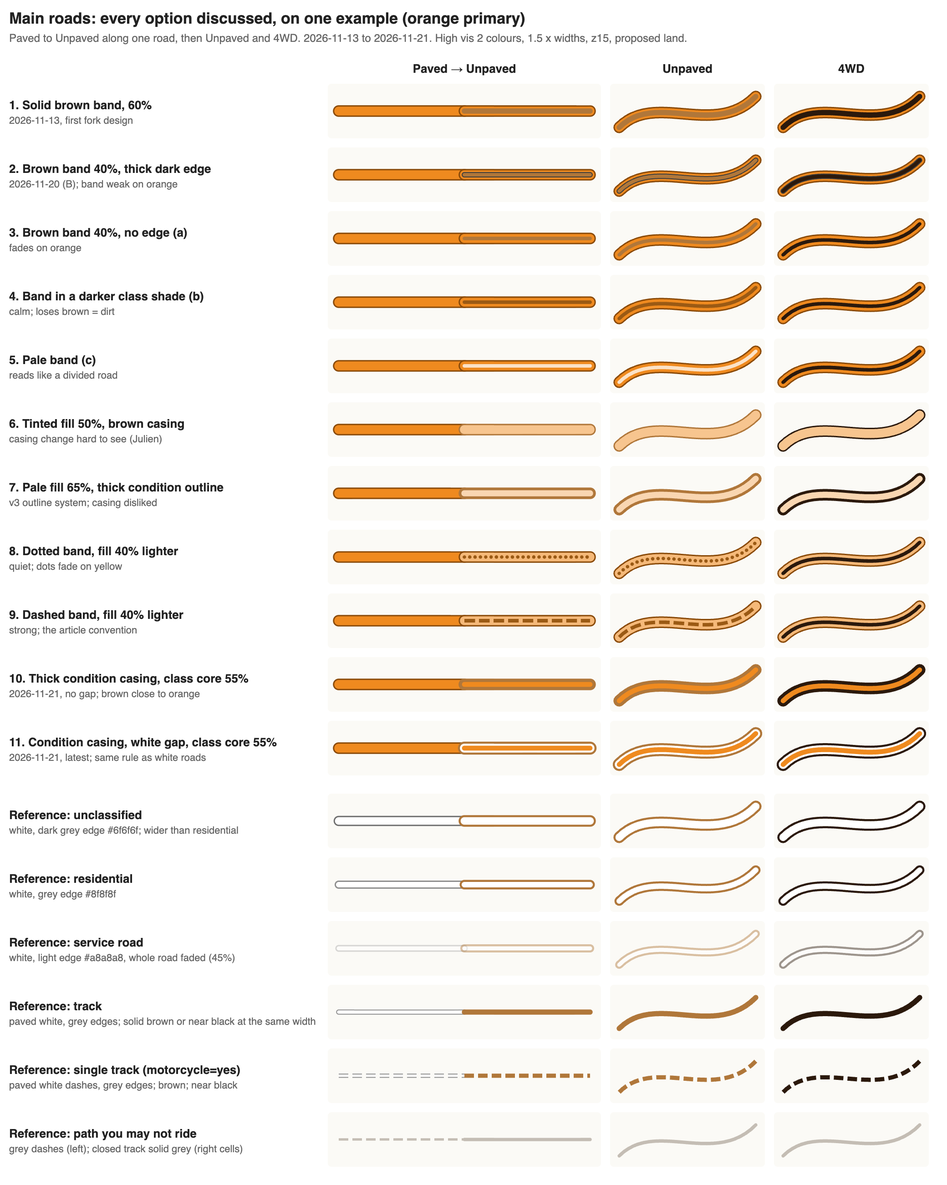
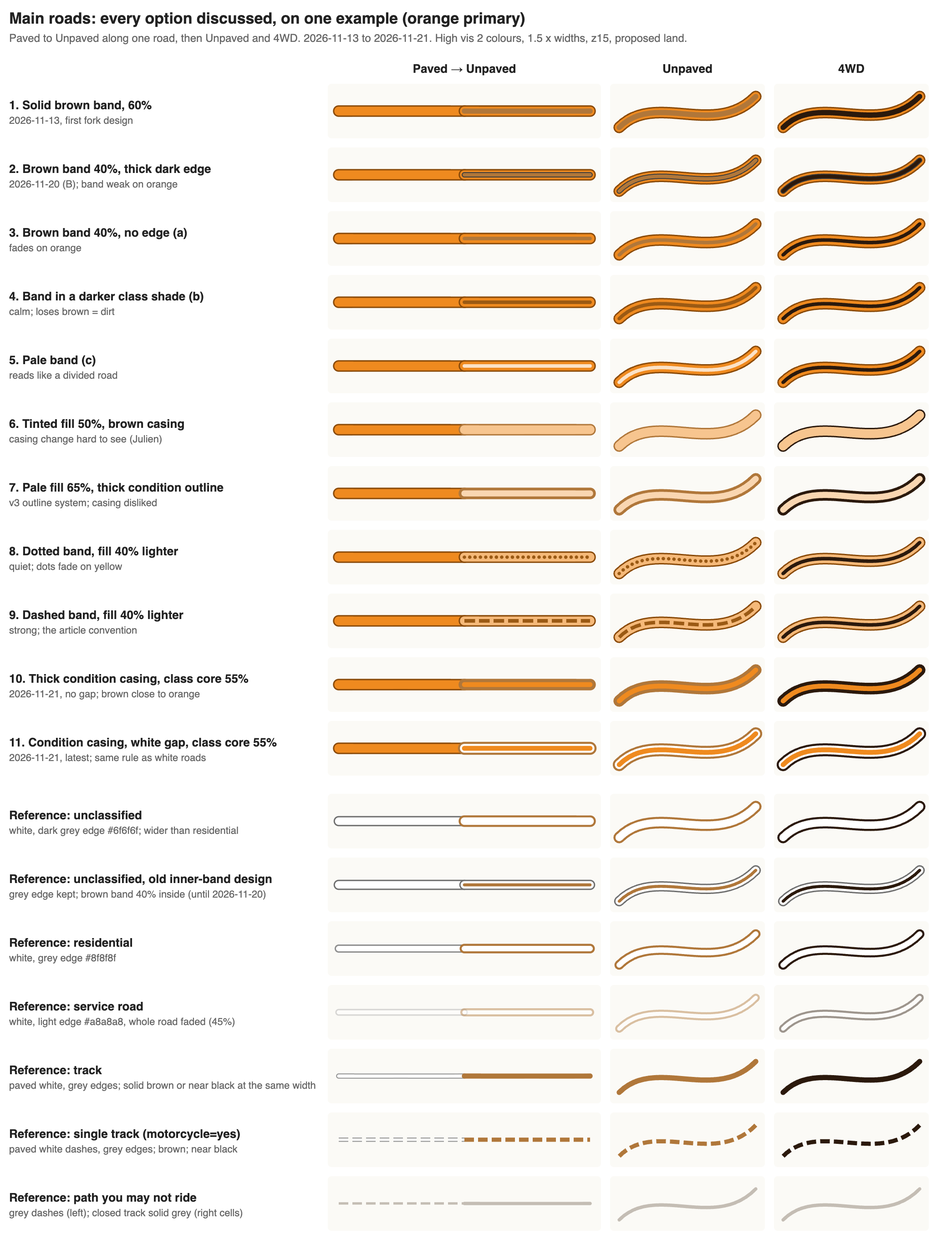
Research: tertiary colour across maps (white in the Carto family, yellow in topo and German-style maps); comparison with the old inner-band white road; todo updated

diff --git a/research/todo.md b/research/todo.md
@@ -45,7 +45,7 @@ Updated 2026-11-20. Only what is still open. Settled decisions are in [decisions
 
 ## Tracks rendering
 
-- Find a mechanism for rendering unpaved roads and tracks/paths consistently together (added 2026-11-16, Julien). Starting points: the constraint and shared classifier in [E-tracks.md section 4](E-tracks.md#4-constraint-from-the-roads-work) (a road never drawn as a track, tracks unlike any Unpaved or Off-road road, one classifier for both), scheme D in [section 6.4](E-tracks.md#64-scheme-d-decisions-of-2026-11-13-julien-not-in-the-article), paved tracks drawn solid (Low priority below). Left: decide what "consistent" means (shared ramp and legend words, shared dash rhythms, or one rule mapping road class plus condition to a look), then a mockup of roads and tracks side by side in each road style. **Better mockups** (Julien, 2026-11-19): for the OsmAnd fork first (scheme D tracks, solid brown band on roads, [E-tracks.md section 6.4](E-tracks.md#64-scheme-d-decisions-of-2026-11-13-julien-not-in-the-article)), as real-data map crops instead of single swatches on a curve, so roads and tracks are seen meeting at junctions. Views from the track round ([examples/track-spots.md](examples/track-spots.md)): chiangrai (moto paths, untagged tracks), thailand-1 (every track grade, paved tracks) and a Swiss one (closed-way density); geometry in `pbf/<c>-ways.geojsonseq` (Geofabrik 2026-11-12). Covers the "Next" step of section 6.4. **Done 2026-11-19**: [mockups/fork-crop-*.png](mockups/) from `node mockups/make-fork-crops.mjs` (chiangrai, thailand-1, switzerland-2 with three closed-way styles), reading in [E-tracks.md 6.4](E-tracks.md#64-scheme-d-decisions-of-2026-11-13-julien-not-in-the-article) ("Real-data crops"). Closed ways: **grey** (Julien, 2026-11-19; solid light grey for tracks, dots for paths), drawn in the crops; OsmAnd's motorcycle routing already avoids them (E-tracks 6.4, "Routing already matches"). **Left** (Julien): decide whether paved tracks must differ from residential roads; say whether the 40% band on white roads is too light next to tracks. **Riding focus** (Julien, 2026-11-19: road riding, adventure riding with 4WD, trail riding with `dirtbike:scale` symbols): proposal drawn 2026-11-19 in [mockups/fork-focus-*.png](mockups/) and written in E-tracks 6.4 ("Riding focus", with the OsmAnd check for `dirtbike:scale`: already in the maps as `route_dirtbike`, symbols possible with dashes, dots and squares only). **Left** (Julien): check the three focus values, pick the default (Claude: Adventure), `dirtbike:scale`: not rendered for now, documented only in E-tracks 6.4 (Julien, 2026-11-19; the count-and-bar symbol set is kept there); paths now dashed grey, one grey for everything you may not ride (Julien, 2026-11-19; density check [mockups/fork-crop-switzerland-1.png](mockups/fork-crop-switzerland-1.png)): pick the grey path width, 1.75 or 1.4 dp; road casing: **B** chosen (Julien, 2026-11-19), with unclassified and tertiary darker than residential and service roads faded (private ones grey), applied to every sheet (E-tracks 6.4, "White-road hierarchy and service roads"); closed roads grey, `destination` no longer grey, driveways grey from z16, footways and cycleways hidden, Road riding without dirt tracks but with the dirt band on roads at full strength (a warning), Trail riding with paved roads at 60% (Julien, 2026-11-19; E-tracks 6.4 "Closed roads, driveways", z16 check [mockups/fork-crop-switzerland-1-z16.png](mockups/fork-crop-switzerland-1-z16.png)); **Readability** (Julien, 2026-11-19: colours hard to read, larger is better for older riders): Garmin and DMD2 review and a high-visibility palette (saturated fills, 1.5 x widths, band edge, road numbers) in [mockups/fork-hivis-*.png](mockups/), written in E-tracks 6.4 ("Readability"); Scored 2026-11-19 (`mockups/score-readability.py`): Now 3.0, High vis 6.7, **High vis 2 8.2** (crimson-rose trunk, deeper orange; colour-blind safe), AdvOSM 9.1. **High vis 2 adopted** (Julien, 2026-11-19), every sheet redrawn. **Confirmed ladder adopted** (Julien, 2026-11-20; E-tracks 6.4): tan Easy where a city car is confirmed, brown for everything not confirmed including high clearance, near black 4WD; [mockups/fork-ladder-*.png](mockups/); pale sand `#f6f1e2` and rock `#efeeeb` added to the background; Easy level by hue (Julien, 2026-11-20): tan, slate blue, purple, mauve compared in [mockups/fork-easy-*.png](mockups/); green fails for colour blindness, blue reads as water; **decided: Easy as a shape** (Julien, 2026-11-20), now **v3**: white track with brown edges, Easy roads with brown lines inside the casing (more brown = rougher); [mockups/fork-easyshape-*.png](mockups/); main roads compared 2026-11-20 ([mockups/mainroads-options.png](mockups/mainroads-options.png), [mockups/fork-main-thailand-3.png](mockups/fork-main-thailand-3.png)): main roads: inner band only (Julien, 2026-11-20), but the brown band with dark edge disliked: **b adopted** (darker class shade; white roads and tracks keep brown; Julien, 2026-11-20); design v2 options ([mockups/design-overview-v2.png](mockups/design-overview-v2.png)); **design v3, one outline system** ([mockups/design-overview-v3.png](mockups/design-overview-v3.png)): outline = condition everywhere (grey, slate blue, brown, near black), main roads pale fill and thick outline when not paved; main-road outline dropped (Julien, 2026-11-20); **main-road pattern: dotted vs dashed band compared** ([mockups/pattern-options.png](mockups/pattern-options.png)); **proposal: 40% lighter fill, Car friendly dots, Unpaved dashes, 4WD solid band; Julien to decide**; all options on one example: [mockups/main-compare.png](mockups/main-compare.png) (with references: unclassified, residential, service, track, single track, path); tracks as wide as a paved track with its edges (2026-11-21); **new idea: condition casing, white gap, class-colour core** ([mockups/core-options.png](mockups/core-options.png); proposal 55% core; Car friendly outline colour still open: blue reads as a route); then make it the default and redraw the crops ([mockups/mainroads-options.png](mockups/mainroads-options.png)); level renamed **Car friendly**; paved single tracks white dashes with grey edges; smooth single tracks white dashes with brown edges ("car friendly" does not apply to single tracks); tracks and white roads keep v3; overview sheet [mockups/design-overview.png](mockups/design-overview.png); band 40% on every class (50% in Adventure riding); smooth tracks drawn above rough ones; side-by-side sheet [mockups/easy-options.png](mockups/easy-options.png); **to fix: the brown Unpaved band almost vanishes inside the orange primary** (contrast 1.50; trunk 1.22); **left**: a desert view to test sand (none of the four views has sand; Namibia or Mongolia extract needed). Earlier: Track colours rated (about 7.5) and changed 2026-11-19: `very_horrible` tracks as near-black single tracks, band edge neutral grey; rust middle step (`#7a3a14`) drawn as a variant in [mockups/fork-ramp-thailand-1.png](mockups/fork-ramp-thailand-1.png), **Julien to decide**; score now High vis 2 7.4, with rust 7.6. Land colours researched 2026-11-19 (E-tracks 6.5 "Land colour research": Carto, OsmAnd default, Motorcycle, AdvOSM, Gaia, Komoot, contrast of the fork colours on land and forest); proposal land `#fbfaf6`, forest `#e2ebd8`; drawn on real landcover 2026-11-19 ([mockups/fork-land-*.png](mockups/)): Carto's forest hides tracks and grey, Motorcycle and the proposal keep them; **proposal adopted** (Julien, 2026-11-19). **The style is Julien's own version, not a fork of the GPL v3 Motorcycle plugin** (E-tracks 6.5): no code or values copied; check the OsmAnd-resources licence exceptions before reusing anything from `default.render.xml`; **minimal, no fork** (Julien, 2026-11-19): an override-only style on `depends="default"`; **next**: test style in `osmand-render` with only the band and the brown track ramp on thailand-1; **Water and fords** (2026-11-19, E-tracks 6.5): rivers inherited and recoloured, fords and bridges inherited, check the ford icon in the test render; Julien to confirm. **Hillshade and contours: waiting for Julien** (E-tracks 6.5, plan): (1) fix GDAL with `brew upgrade gdal` or go without it, (2) OK to download four Copernicus DEM tiles; then variants A, B, C on thailand-1 and switzerland-2. hillshade and contours still to do (no elevation data yet). **Next to make it better** (E-tracks 6.4, "How to make it better"): phone test outdoors, reader test round 3 with riders, thinner towns, z10 to 13, tracks a little wider, shields, night; motorways to add (not in the extract); then the missing list there in order (fuel, z10 to 13, fords, place names, hillshade, night, blocking barriers at z16+; barriers otherwise not drawn, Julien). Then redraw [mockups/picks-combined.png](mockups/picks-combined.png) with grey closed ways, choose the night grey, night crops, and a forest background once landuse is extracted.
+- Find a mechanism for rendering unpaved roads and tracks/paths consistently together (added 2026-11-16, Julien). Starting points: the constraint and shared classifier in [E-tracks.md section 4](E-tracks.md#4-constraint-from-the-roads-work) (a road never drawn as a track, tracks unlike any Unpaved or Off-road road, one classifier for both), scheme D in [section 6.4](E-tracks.md#64-scheme-d-decisions-of-2026-11-13-julien-not-in-the-article), paved tracks drawn solid (Low priority below). Left: decide what "consistent" means (shared ramp and legend words, shared dash rhythms, or one rule mapping road class plus condition to a look), then a mockup of roads and tracks side by side in each road style. **Better mockups** (Julien, 2026-11-19): for the OsmAnd fork first (scheme D tracks, solid brown band on roads, [E-tracks.md section 6.4](E-tracks.md#64-scheme-d-decisions-of-2026-11-13-julien-not-in-the-article)), as real-data map crops instead of single swatches on a curve, so roads and tracks are seen meeting at junctions. Views from the track round ([examples/track-spots.md](examples/track-spots.md)): chiangrai (moto paths, untagged tracks), thailand-1 (every track grade, paved tracks) and a Swiss one (closed-way density); geometry in `pbf/<c>-ways.geojsonseq` (Geofabrik 2026-11-12). Covers the "Next" step of section 6.4. **Done 2026-11-19**: [mockups/fork-crop-*.png](mockups/) from `node mockups/make-fork-crops.mjs` (chiangrai, thailand-1, switzerland-2 with three closed-way styles), reading in [E-tracks.md 6.4](E-tracks.md#64-scheme-d-decisions-of-2026-11-13-julien-not-in-the-article) ("Real-data crops"). Closed ways: **grey** (Julien, 2026-11-19; solid light grey for tracks, dots for paths), drawn in the crops; OsmAnd's motorcycle routing already avoids them (E-tracks 6.4, "Routing already matches"). **Left** (Julien): decide whether paved tracks must differ from residential roads; say whether the 40% band on white roads is too light next to tracks. **Riding focus** (Julien, 2026-11-19: road riding, adventure riding with 4WD, trail riding with `dirtbike:scale` symbols): proposal drawn 2026-11-19 in [mockups/fork-focus-*.png](mockups/) and written in E-tracks 6.4 ("Riding focus", with the OsmAnd check for `dirtbike:scale`: already in the maps as `route_dirtbike`, symbols possible with dashes, dots and squares only). **Left** (Julien): check the three focus values, pick the default (Claude: Adventure), `dirtbike:scale`: not rendered for now, documented only in E-tracks 6.4 (Julien, 2026-11-19; the count-and-bar symbol set is kept there); paths now dashed grey, one grey for everything you may not ride (Julien, 2026-11-19; density check [mockups/fork-crop-switzerland-1.png](mockups/fork-crop-switzerland-1.png)): pick the grey path width, 1.75 or 1.4 dp; road casing: **B** chosen (Julien, 2026-11-19), with unclassified and tertiary darker than residential and service roads faded (private ones grey), applied to every sheet (E-tracks 6.4, "White-road hierarchy and service roads"); closed roads grey, `destination` no longer grey, driveways grey from z16, footways and cycleways hidden, Road riding without dirt tracks but with the dirt band on roads at full strength (a warning), Trail riding with paved roads at 60% (Julien, 2026-11-19; E-tracks 6.4 "Closed roads, driveways", z16 check [mockups/fork-crop-switzerland-1-z16.png](mockups/fork-crop-switzerland-1-z16.png)); **Readability** (Julien, 2026-11-19: colours hard to read, larger is better for older riders): Garmin and DMD2 review and a high-visibility palette (saturated fills, 1.5 x widths, band edge, road numbers) in [mockups/fork-hivis-*.png](mockups/), written in E-tracks 6.4 ("Readability"); Scored 2026-11-19 (`mockups/score-readability.py`): Now 3.0, High vis 6.7, **High vis 2 8.2** (crimson-rose trunk, deeper orange; colour-blind safe), AdvOSM 9.1. **High vis 2 adopted** (Julien, 2026-11-19), every sheet redrawn. **Confirmed ladder adopted** (Julien, 2026-11-20; E-tracks 6.4): tan Easy where a city car is confirmed, brown for everything not confirmed including high clearance, near black 4WD; [mockups/fork-ladder-*.png](mockups/); pale sand `#f6f1e2` and rock `#efeeeb` added to the background; Easy level by hue (Julien, 2026-11-20): tan, slate blue, purple, mauve compared in [mockups/fork-easy-*.png](mockups/); green fails for colour blindness, blue reads as water; **decided: Easy as a shape** (Julien, 2026-11-20), now **v3**: white track with brown edges, Easy roads with brown lines inside the casing (more brown = rougher); [mockups/fork-easyshape-*.png](mockups/); main roads compared 2026-11-20 ([mockups/mainroads-options.png](mockups/mainroads-options.png), [mockups/fork-main-thailand-3.png](mockups/fork-main-thailand-3.png)): main roads: inner band only (Julien, 2026-11-20), but the brown band with dark edge disliked: **b adopted** (darker class shade; white roads and tracks keep brown; Julien, 2026-11-20); design v2 options ([mockups/design-overview-v2.png](mockups/design-overview-v2.png)); **design v3, one outline system** ([mockups/design-overview-v3.png](mockups/design-overview-v3.png)): outline = condition everywhere (grey, slate blue, brown, near black), main roads pale fill and thick outline when not paved; main-road outline dropped (Julien, 2026-11-20); **main-road pattern: dotted vs dashed band compared** ([mockups/pattern-options.png](mockups/pattern-options.png)); **proposal: 40% lighter fill, Car friendly dots, Unpaved dashes, 4WD solid band; Julien to decide**; all options on one example: [mockups/main-compare.png](mockups/main-compare.png) (with references: unclassified, residential, service, track, single track, path); tracks as wide as a paved track with its edges (2026-11-21); unclassified wider than residential (5.5 against 4 dp); **tertiary colour researched** (E-tracks 6.4: Carto family white, topo and German-style maps yellow): **proposal pale yellow, Julien to decide**; **new idea: condition casing, white gap, class-colour core** ([mockups/core-options.png](mockups/core-options.png); proposal 55% core; Car friendly outline colour still open: blue reads as a route); then make it the default and redraw the crops ([mockups/mainroads-options.png](mockups/mainroads-options.png)); level renamed **Car friendly**; paved single tracks white dashes with grey edges; smooth single tracks white dashes with brown edges ("car friendly" does not apply to single tracks); tracks and white roads keep v3; overview sheet [mockups/design-overview.png](mockups/design-overview.png); band 40% on every class (50% in Adventure riding); smooth tracks drawn above rough ones; side-by-side sheet [mockups/easy-options.png](mockups/easy-options.png); **to fix: the brown Unpaved band almost vanishes inside the orange primary** (contrast 1.50; trunk 1.22); **left**: a desert view to test sand (none of the four views has sand; Namibia or Mongolia extract needed). Earlier: Track colours rated (about 7.5) and changed 2026-11-19: `very_horrible` tracks as near-black single tracks, band edge neutral grey; rust middle step (`#7a3a14`) drawn as a variant in [mockups/fork-ramp-thailand-1.png](mockups/fork-ramp-thailand-1.png), **Julien to decide**; score now High vis 2 7.4, with rust 7.6. Land colours researched 2026-11-19 (E-tracks 6.5 "Land colour research": Carto, OsmAnd default, Motorcycle, AdvOSM, Gaia, Komoot, contrast of the fork colours on land and forest); proposal land `#fbfaf6`, forest `#e2ebd8`; drawn on real landcover 2026-11-19 ([mockups/fork-land-*.png](mockups/)): Carto's forest hides tracks and grey, Motorcycle and the proposal keep them; **proposal adopted** (Julien, 2026-11-19). **The style is Julien's own version, not a fork of the GPL v3 Motorcycle plugin** (E-tracks 6.5): no code or values copied; check the OsmAnd-resources licence exceptions before reusing anything from `default.render.xml`; **minimal, no fork** (Julien, 2026-11-19): an override-only style on `depends="default"`; **next**: test style in `osmand-render` with only the band and the brown track ramp on thailand-1; **Water and fords** (2026-11-19, E-tracks 6.5): rivers inherited and recoloured, fords and bridges inherited, check the ford icon in the test render; Julien to confirm. **Hillshade and contours: waiting for Julien** (E-tracks 6.5, plan): (1) fix GDAL with `brew upgrade gdal` or go without it, (2) OK to download four Copernicus DEM tiles; then variants A, B, C on thailand-1 and switzerland-2. hillshade and contours still to do (no elevation data yet). **Next to make it better** (E-tracks 6.4, "How to make it better"): phone test outdoors, reader test round 3 with riders, thinner towns, z10 to 13, tracks a little wider, shields, night; motorways to add (not in the extract); then the missing list there in order (fuel, z10 to 13, fords, place names, hillshade, night, blocking barriers at z16+; barriers otherwise not drawn, Julien). Then redraw [mockups/picks-combined.png](mockups/picks-combined.png) with grey closed ways, choose the night grey, night crops, and a forest background once landuse is extracted.
 
 ## Low priority
 

diff --git a/research/E-tracks.md b/research/E-tracks.md
@@ -348,7 +348,19 @@ Score after these changes (a new measure, ramp steps apart, added; the scores ar
 
 **Main roads: no outline, a pattern (Julien, 2026-11-20).** The condition outline works on white roads and tracks but not on coloured roads: Julien did not like it, and a coloured outline (blue above all) is how navigation apps highlight the active route. Patterns compared in [mockups/pattern-options.png](mockups/pattern-options.png) (`node mockups/make-pattern-options.mjs`): dotted band and dashed band in a darker shade of the class colour (Car friendly sparse, Unpaved dense, 4WD a near-black band), on the High vis 2 fill and on a fill 40% lighter, land and forest. Reading (Claude): dots are quiet but dense dots fade on yellow, and sparse against dense differ only by spacing; dashes are stronger on every class and are the convention (the article's style 3, Americana), and inside a road between the class edges they do not read as a single track; the 40% lighter fill helps both. Proposal: on the 40% lighter fill, Car friendly sparse dots, Unpaved dashes, 4WD solid near-black band (dots, dashes, solid: the line fills in as the road gets rougher). Julien to decide.
 
-**Track width (Julien, 2026-11-21):** Unpaved and 4WD tracks (and single tracks) are now as wide as a paved track with its edges (2.5 dp + 2 dp), so a track keeps its width where the surface changes; in every crop and in the comparison. **All main-road options on one example (2026-11-21):** [mockups/main-compare.png](mockups/main-compare.png) (`node mockups/make-main-compare.mjs`): the eleven designs discussed from 2026-11-13 to 2026-11-21 on the orange primary (the hardest case for brown), each as paved to Unpaved along one road, Unpaved and 4WD, with references below: unclassified and tertiary, residential, service (faded), track, single track, path you may not ride. **Main roads: condition casing, white gap, class-colour core (Julien, 2026-11-21).** Julien meant the inner band with a white gap between it and the casing: when not paved, the road is drawn like an unpaved white road in the outline system (condition casing 1.5 dp a side, white fill) with the class colour as a core of 40, 55 or 70% of the fill, now in [mockups/core-options.png](mockups/core-options.png). Reading (Claude): one rule for every road (outline = condition, white = not paved, core = class on main roads); the white gap separates the brown from the orange, so the unpaved primary is now clearly apart from the paved one; the paved-to-unpaved change is sharp on all three classes; 55% balances (40% thins the yellow stripe, 70% nearly closes the gap). Still open: the slate-blue Car friendly outline looks like OsmAnd's blue route; a thin brown outline would avoid it. Proposal: 55% core. Julien to decide. The version without the gap, drawn first:  When not paved, the condition colour fills the whole road width and the class colour is a core of 40, 55 or 70% of the fill: [mockups/core-options.png](mockups/core-options.png) (`node mockups/make-core-options.mjs`), with a paved-to-unpaved transition along one road and a white road for comparison. It is the outline system of white roads with a thicker outline, so one rule for every road. Reading (Claude): 55% balances condition and class; 40% makes the road brown with a coloured stripe; 70% is close to the thin outline Julien disliked; 4WD (black with a coloured core) is very strong. Weak points: on the orange primary the brown is close in hue, so the change is weakest there; the thick slate-blue Car friendly outline looks like the route OsmAnd draws in blue. Suggestion: 55% core; Car friendly main roads with a thin brown outline (1 dp) instead of blue (thin brown = a car passes, thick brown = Unpaved, thick black = 4WD); a darker brown on the orange primary. Julien to decide.
+**Track width (Julien, 2026-11-21):** Unpaved and 4WD tracks (and single tracks) are now as wide as a paved track with its edges (2.5 dp + 2 dp), so a track keeps its width where the surface changes; in every crop and in the comparison. **Tertiary colour, what other maps do (2026-11-21).** Julien: in his experience only unclassified is white, since it is easily confused with residential; tertiary is usually yellow. Checked in the style sources (OsmAnd `default.render.xml`, the OsmAnd OSM Carto port) and by sampling the road colours of paved tertiary, secondary, unclassified and residential ways in the 1200 x 800 track-round screenshots of switzerland-1, -2 and -3 (`examples/screenshots/track-*/`; only the readings where one colour covers 60% or more of the samples are kept):
+
+| Tertiary drawn | Maps |
+|---|---|
+| **White, like unclassified** | OSM Carto and the OsmAnd web map (secondary pale yellow `#f7fabf`), OsmAnd default (`tertiaryRoadColor` `#ffffff`), MapTiler OMT, OpenCycleMap, Tracestrack |
+| **Yellow or pale yellow, apart from unclassified** | OpenTopoMap (`#f0e460`, the same as secondary), Shortbread (about `#f0f0b4`, secondary orange), Humanitarian (yellow, secondary tan), Thunderforest Outdoors (pale yellow), OsmAnd with the "German road atlas" (`#ffff80`) or "high contrast" (`#f0c810`) road style |
+| **One colour for every minor class** | Americana, Protomaps, Stadia, Kurviger, Ride with GPS, CalTopo, Gaia GPS (no class colours below secondary) |
+
+So both conventions are common: the OSM Carto family draws tertiary white, the topographic and German-style maps draw it yellow. Proposal (Claude): tertiary in a pale yellow of its own, lighter than the secondary's saturated `#f4e04a`, so it separates from unclassified (the confusion Julien describes) and from secondary; as a coloured class it then takes the main-road design (option 11). Julien to decide.
+
+**Unclassified wider than residential (Julien, 2026-11-21):** 5.5 dp against 4 (was 4.5), in the comparison and the crops. The comparison sheet also shows the old white-road design (grey edge, brown band inside) next to the outline version for reference.
+
+**All main-road options on one example (2026-11-21):** [mockups/main-compare.png](mockups/main-compare.png) (`node mockups/make-main-compare.mjs`): the eleven designs discussed from 2026-11-13 to 2026-11-21 on the orange primary (the hardest case for brown), each as paved to Unpaved along one road, Unpaved and 4WD, with references below: unclassified and tertiary, residential, service (faded), track, single track, path you may not ride. **Main roads: condition casing, white gap, class-colour core (Julien, 2026-11-21).** Julien meant the inner band with a white gap between it and the casing: when not paved, the road is drawn like an unpaved white road in the outline system (condition casing 1.5 dp a side, white fill) with the class colour as a core of 40, 55 or 70% of the fill, now in [mockups/core-options.png](mockups/core-options.png). Reading (Claude): one rule for every road (outline = condition, white = not paved, core = class on main roads); the white gap separates the brown from the orange, so the unpaved primary is now clearly apart from the paved one; the paved-to-unpaved change is sharp on all three classes; 55% balances (40% thins the yellow stripe, 70% nearly closes the gap). Still open: the slate-blue Car friendly outline looks like OsmAnd's blue route; a thin brown outline would avoid it. Proposal: 55% core. Julien to decide. The version without the gap, drawn first:  When not paved, the condition colour fills the whole road width and the class colour is a core of 40, 55 or 70% of the fill: [mockups/core-options.png](mockups/core-options.png) (`node mockups/make-core-options.mjs`), with a paved-to-unpaved transition along one road and a white road for comparison. It is the outline system of white roads with a thicker outline, so one rule for every road. Reading (Claude): 55% balances condition and class; 40% makes the road brown with a coloured stripe; 70% is close to the thin outline Julien disliked; 4WD (black with a coloured core) is very strong. Weak points: on the orange primary the brown is close in hue, so the change is weakest there; the thick slate-blue Car friendly outline looks like the route OsmAnd draws in blue. Suggestion: 55% core; Car friendly main roads with a thin brown outline (1 dp) instead of blue (thin brown = a car passes, thick brown = Unpaved, thick black = 4WD); a darker brown on the orange primary. Julien to decide.
 
 **Single tracks (Julien, 2026-11-20):** "car friendly" makes no sense on a single track, so there the level reads **smooth** (same tags: smoothness bad or better, grade1 or 2, compacted, fine_gravel): white dashes with brown edges, as the car-friendly track but dashed; paved single tracks white dashes with grey edges; unpaved brown dashes; the roughest near-black dashes. **Decision (Julien, 2026-11-20): b on main roads** (shade 35% toward black; measured contrast against the fill: secondary 2.35, primary 2.15, trunk 1.89, the trunk relying partly on the hue). **White roads keep brown** (Car friendly brown inner edges, Unpaved brown band, 4WD near-black band): the darker shade of white is grey, which means "may not ride", and white roads belong with the brown dirt network that tracks join. Rule: a coloured class marks dirt in a darker shade of itself; neutral ways (white roads, tracks) mark it in brown. Overview of the whole design, minor ways against main roads and the grey: [mockups/design-overview.png](mockups/design-overview.png). White roads, 4WD: a near-black band in the middle, not black edges (Julien asked, 2026-11-20): black just inside the dark grey unclassified casing would read as a heavier casing, i.e. a more important road, and 4WD needs the strongest mark.
 - **Decision (Julien, 2026-11-20): band 40% on every class** (was 60% on coloured roads, 75% in Adventure riding, now 50% there): at 60% the class colour hardly showed on main roads. At 1.5 x widths 40% is about a track's width on main roads (3.6 to 4.2 dp).
